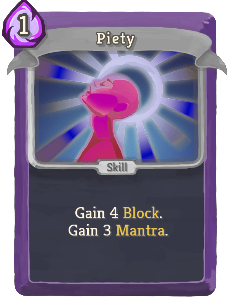
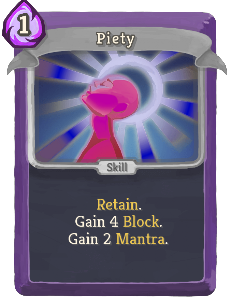
1.1.0 release

Changed region(s): [[0.2727, 0.6644, 0.7273, 0.8456], [0.0606, 0.0302, 0.1515, 0.151]]

diff --git a/src/main/java/BetterBeginnings/cards/blue/Subzero.java b/src/main/java/BetterBeginnings/cards/blue/Subzero.java
@@ -27,24 +27,26 @@ public class Subzero extends CustomCard {
     private static final CardTarget TARGET = CardTarget.SELF;
     private static final CardType TYPE = CardType.POWER;
     public static final CardColor COLOR = CardColor.BLUE;
-    private static final int COST = 2;
+    private static final int COST = 1;
 
     public Subzero() {
         super(ID, NAME, IMG, COST, DESCRIPTION, TYPE, COLOR, RARITY, TARGET);
+        this.baseMagicNumber = 2;
+        this.magicNumber = this.baseMagicNumber;
     }
 
     @Override
     public void use(AbstractPlayer p, AbstractMonster m) {
-        this.addToBot(new ChannelAction(new Frost()));
-        this.addToBot(new ChannelAction(new Frost()));
-        this.addToBot(new ApplyPowerAction(p, p, new FocusPower(p, 1), 1));
+        for (int i = 0; i < this.magicNumber; i++) {
+            this.addToBot(new ChannelAction(new Frost()));
+        }
     }
 
     @Override
     public void upgrade() {
         if (!this.upgraded) {
             this.upgradeName();
-            this.upgradeBaseCost(1);
+            this.upgradeMagicNumber(1);
             initializeDescription();
         }
     }

diff --git a/src/main/java/BetterBeginnings/cards/purple/Piety.java b/src/main/java/BetterBeginnings/cards/purple/Piety.java
@@ -33,8 +33,9 @@ public class Piety extends CustomCard {
         super(ID, NAME, IMG, COST, DESCRIPTION, TYPE, COLOR, RARITY, TARGET);
         this.baseBlock = 4;
         this.block = this.baseBlock;
-        this.baseMagicNumber = 3;
+        this.baseMagicNumber = 2;
         this.magicNumber = this.baseMagicNumber;
+        this.selfRetain = true;
     }
 
     @Override
@@ -53,7 +54,7 @@ public class Piety extends CustomCard {
     public void upgrade() {
         if (!this.upgraded) {
             this.upgradeName();
-            this.upgradeBlock(3);
+            this.upgradeBlock(2);
             initializeDescription();
         }
     }

diff --git a/src/main/java/BetterBeginnings/cards/purple/Prescience.java b/src/main/java/BetterBeginnings/cards/purple/Prescience.java
@@ -34,7 +34,7 @@ public class Prescience extends CustomCard {
 
     public Prescience() {
         super(ID, NAME, IMG, COST, DESCRIPTION, TYPE, COLOR, RARITY, TARGET);
-        this.baseDamage = 4;
+        this.baseDamage = 3;
         this.damage = this.baseDamage;
         this.baseMagicNumber = 2;
         this.magicNumber = this.baseMagicNumber;

diff --git a/src/main/java/BetterBeginnings/cards/green/StabAndStrike.java b/src/main/java/BetterBeginnings/cards/green/StabAndStrike.java
@@ -49,7 +49,7 @@ public class StabAndStrike extends CustomCard {
     public void upgrade() {
         if (!this.upgraded) {
             this.upgradeName();
-            this.upgradeDamage(3);
+            this.upgradeDamage(2);
             initializeDescription();
         }
     }

diff --git a/src/main/java/BetterBeginnings/cards/blue/DataRecovery.java b/src/main/java/BetterBeginnings/cards/blue/DataRecovery.java
@@ -45,7 +45,7 @@ public class DataRecovery extends CustomCard {
     public void upgrade() {
         if (!this.upgraded) {
             this.upgradeName();
-            this.upgradeBlock(3);
+            this.upgradeBlock(2);
             initializeDescription();
         }
     }

diff --git a/src/main/java/BetterBeginnings/cards/red/Brute.java b/src/main/java/BetterBeginnings/cards/red/Brute.java
@@ -49,7 +49,7 @@ public class Brute extends CustomCard {
     public void upgrade() {
         if (!this.upgraded) {
             this.upgradeName();
-            this.upgradeDamage(4);
+            this.upgradeDamage(3);
             initializeDescription();
         }
     }
